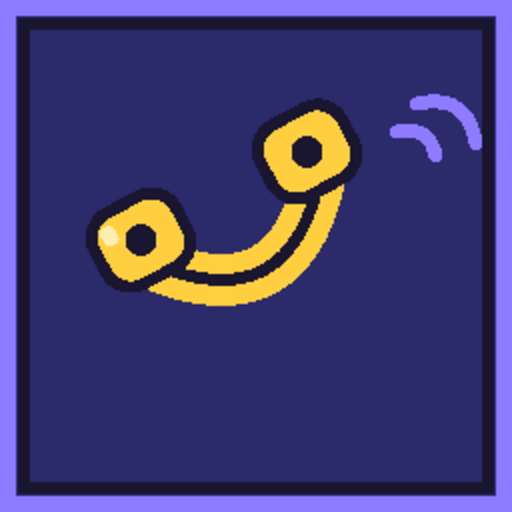
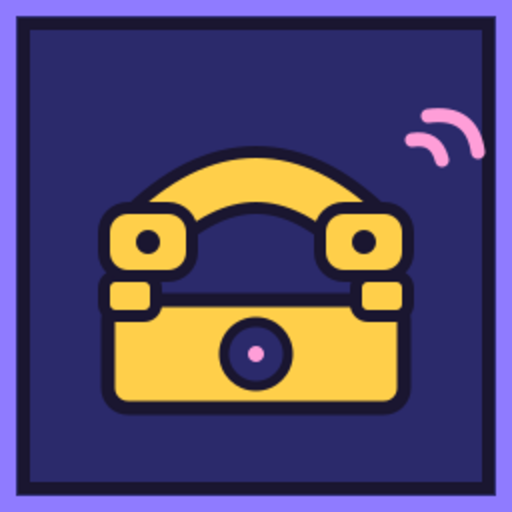
Metro-style inner pages: retune Chirpy skin to homepage arcade palette (#44)
* feat: retune inner-page Chirpy skin to metro arcade palette + fonts (Press Start 2P / VT323, indigo/purple/gold) to match homepage

* fix: restore /about/ link on homepage (About panel 'View full profile') to satisfy CI contract test

* polish: redraw contact phone icon with symmetric primitives (balanced handset, speaker dots, ring waves)

* polish: skills icon = hammer+wrench combo, contact icon = classic desk telephone (retro)

Changed region(s): [[0.1562, 0.1875, 0.8125, 0.8125], [0.75, 0.1562, 0.9688, 0.3438]]

diff --git a/assets/css/jekyll-theme-chirpy.scss b/assets/css/jekyll-theme-chirpy.scss
@@ -12,27 +12,28 @@
   {%- endif -%}
 ';
 
-@import url('https://fonts.googleapis.com/css2?family=Bebas+Neue&family=Manrope:wght@400;500;600;700&family=Space+Mono:wght@400;700&display=swap');
+@import url('https://fonts.googleapis.com/css2?family=Press+Start+2P&family=VT323&family=Space+Mono:wght@400;700&display=swap');
 
 /* Portfolio skin for every Chirpy-powered route.
    Layout and positioning remain owned by Chirpy; this file only changes visual language. */
 :root,
 html[data-mode="dark"],
 html[data-mode="light"] {
-  --ak-black: #050505;
-  --ak-near-black: #111111;
-  --ak-surface: #1a1a1a;
-  --ak-surface-2: #242424;
-  --ak-paper: #f2f2f2;
+  /* Metro arcade palette — matches homepage retro-game.css tokens */
+  --ak-black: #171436;        /* deep indigo base (was bg0) */
+  --ak-near-black: #221a52;   /* indigo surface (bg1) */
+  --ak-surface: #2c2170;      /* raised indigo (bg2) */
+  --ak-surface-2: #3a2f88;    /* panel */
+  --ak-paper: #f4f1ff;        /* ink */
   --ak-white: #ffffff;
-  --ak-yellow: #fec303;
-  --ak-red: #fd393a;
-  --ak-blue: #0da6f0;
+  --ak-yellow: #ffcf4a;       /* gold */
+  --ak-red: #ff5fb0;          /* hot pink (accent shadow) */
+  --ak-blue: #7c6cff;         /* accent violet */
   --ak-violet: #5d12d2;
-  --ak-magenta: #c93dc0;
-  --ak-muted: #b8b8b8;
-  --ak-border: #3d3d3d;
-  --ak-shadow: 0 14px 36px rgba(0, 0, 0, .34);
+  --ak-magenta: #ff9ed8;      /* pink */
+  --ak-muted: #b6ace6;        /* muted indigo-lavender */
+  --ak-border: #8f7bff;       /* purple frame line */
+  --ak-shadow: 0 8px 0 rgba(12, 10, 36, .55), 0 14px 36px rgba(12, 10, 36, .4);
 
   --main-bg: var(--ak-black);
   --mask-bg: rgba(5, 5, 5, .82);
@@ -76,7 +77,9 @@ body {
 body,
 .content,
 #sidebar {
-  font-family: 'Manrope', Arial, sans-serif;
+  font-family: 'VT323', 'Space Mono', monospace;
+  font-size: 1.12rem;
+  letter-spacing: .01em;
 }
 
 ::selection {
@@ -93,9 +96,10 @@ body,
 h1,
 .post-title,
 #sidebar .site-title {
-  font-family: 'Bebas Neue', Impact, sans-serif;
+  font-family: 'Press Start 2P', 'VT323', monospace;
   font-weight: 400;
-  letter-spacing: .025em;
+  letter-spacing: 0;
+  line-height: 1.4;
   text-transform: uppercase;
 }
 
@@ -103,8 +107,8 @@ h2,
 h3,
 h4,
 h5 {
-  font-family: 'Manrope', Arial, sans-serif;
-  letter-spacing: -.025em;
+  font-family: 'Space Mono', ui-monospace, monospace;
+  letter-spacing: 0;
 }
 
 .content {
@@ -115,10 +119,10 @@ h5 {
 
 .content h1 {
   margin-top: 1.5rem;
-  padding-bottom: .42rem;
+  padding-bottom: .5rem;
   border-bottom: 3px solid var(--ak-yellow);
-  font-size: clamp(2.75rem, 5.4vw, 4.65rem);
-  line-height: .94;
+  font-size: clamp(1.15rem, 3vw, 1.9rem);
+  line-height: 1.35;
 }
 
 .content h2 {
@@ -153,8 +157,8 @@ h5 {
 
 #sidebar .site-title {
   color: var(--ak-paper);
-  font-size: 1.7rem;
-  line-height: .96;
+  font-size: .82rem;
+  line-height: 1.5;
 }
 
 #sidebar .site-subtitle {
@@ -380,11 +384,11 @@ small {
 
 .ak-card-title {
   color: var(--ak-paper);
-  font-family: 'Manrope', Arial, sans-serif;
+  font-family: 'Space Mono', ui-monospace, monospace;
   font-size: .96rem;
   font-weight: 700;
   line-height: 1.35;
-  letter-spacing: -.012em;
+  letter-spacing: 0;
 }
 
 .ak-card-title em {
@@ -507,8 +511,8 @@ small {
 
 #archives .year {
   color: var(--ak-paper);
-  font: 400 2.25rem/1 'Bebas Neue', Impact, sans-serif;
-  letter-spacing: .03em;
+  font: 400 1.15rem/1.5 'Press Start 2P', monospace;
+  letter-spacing: 0;
 }
 
 #archives .date,
@@ -532,11 +536,11 @@ footer,
 
 @media (max-width: 849px) {
   .content h1 {
-    font-size: clamp(2.5rem, 12vw, 3.65rem);
+    font-size: clamp(.95rem, 5vw, 1.3rem);
   }
 
   .content h2 {
-    font-size: clamp(1.35rem, 6vw, 1.8rem);
+    font-size: clamp(.82rem, 4vw, 1.05rem);
   }
 
   #sidebar .nav-link {
@@ -583,9 +587,11 @@ footer,
 
 /* Render-audit corrections for theme-owned controls outside the article-link flow. */
 .content h2 {
-  font-family: 'Bebas Neue', Impact, sans-serif;
+  font-family: 'Press Start 2P', 'VT323', monospace;
   font-weight: 400;
-  letter-spacing: .02em;
+  letter-spacing: 0;
+  line-height: 1.4;
+  font-size: clamp(.95rem, 2vw, 1.25rem);
   text-transform: uppercase;
 }
 

diff --git a/index.html b/index.html
@@ -102,6 +102,7 @@
         <span class="badge">🎧 100k+ calls/day GenAI</span>
         <span class="badge">☁ 22% cloud opex ↓</span>
       </p>
+      <p><a class="btn-inline" href="/about/">▶ View full profile</a></p>
     </div>
   </section>
 
